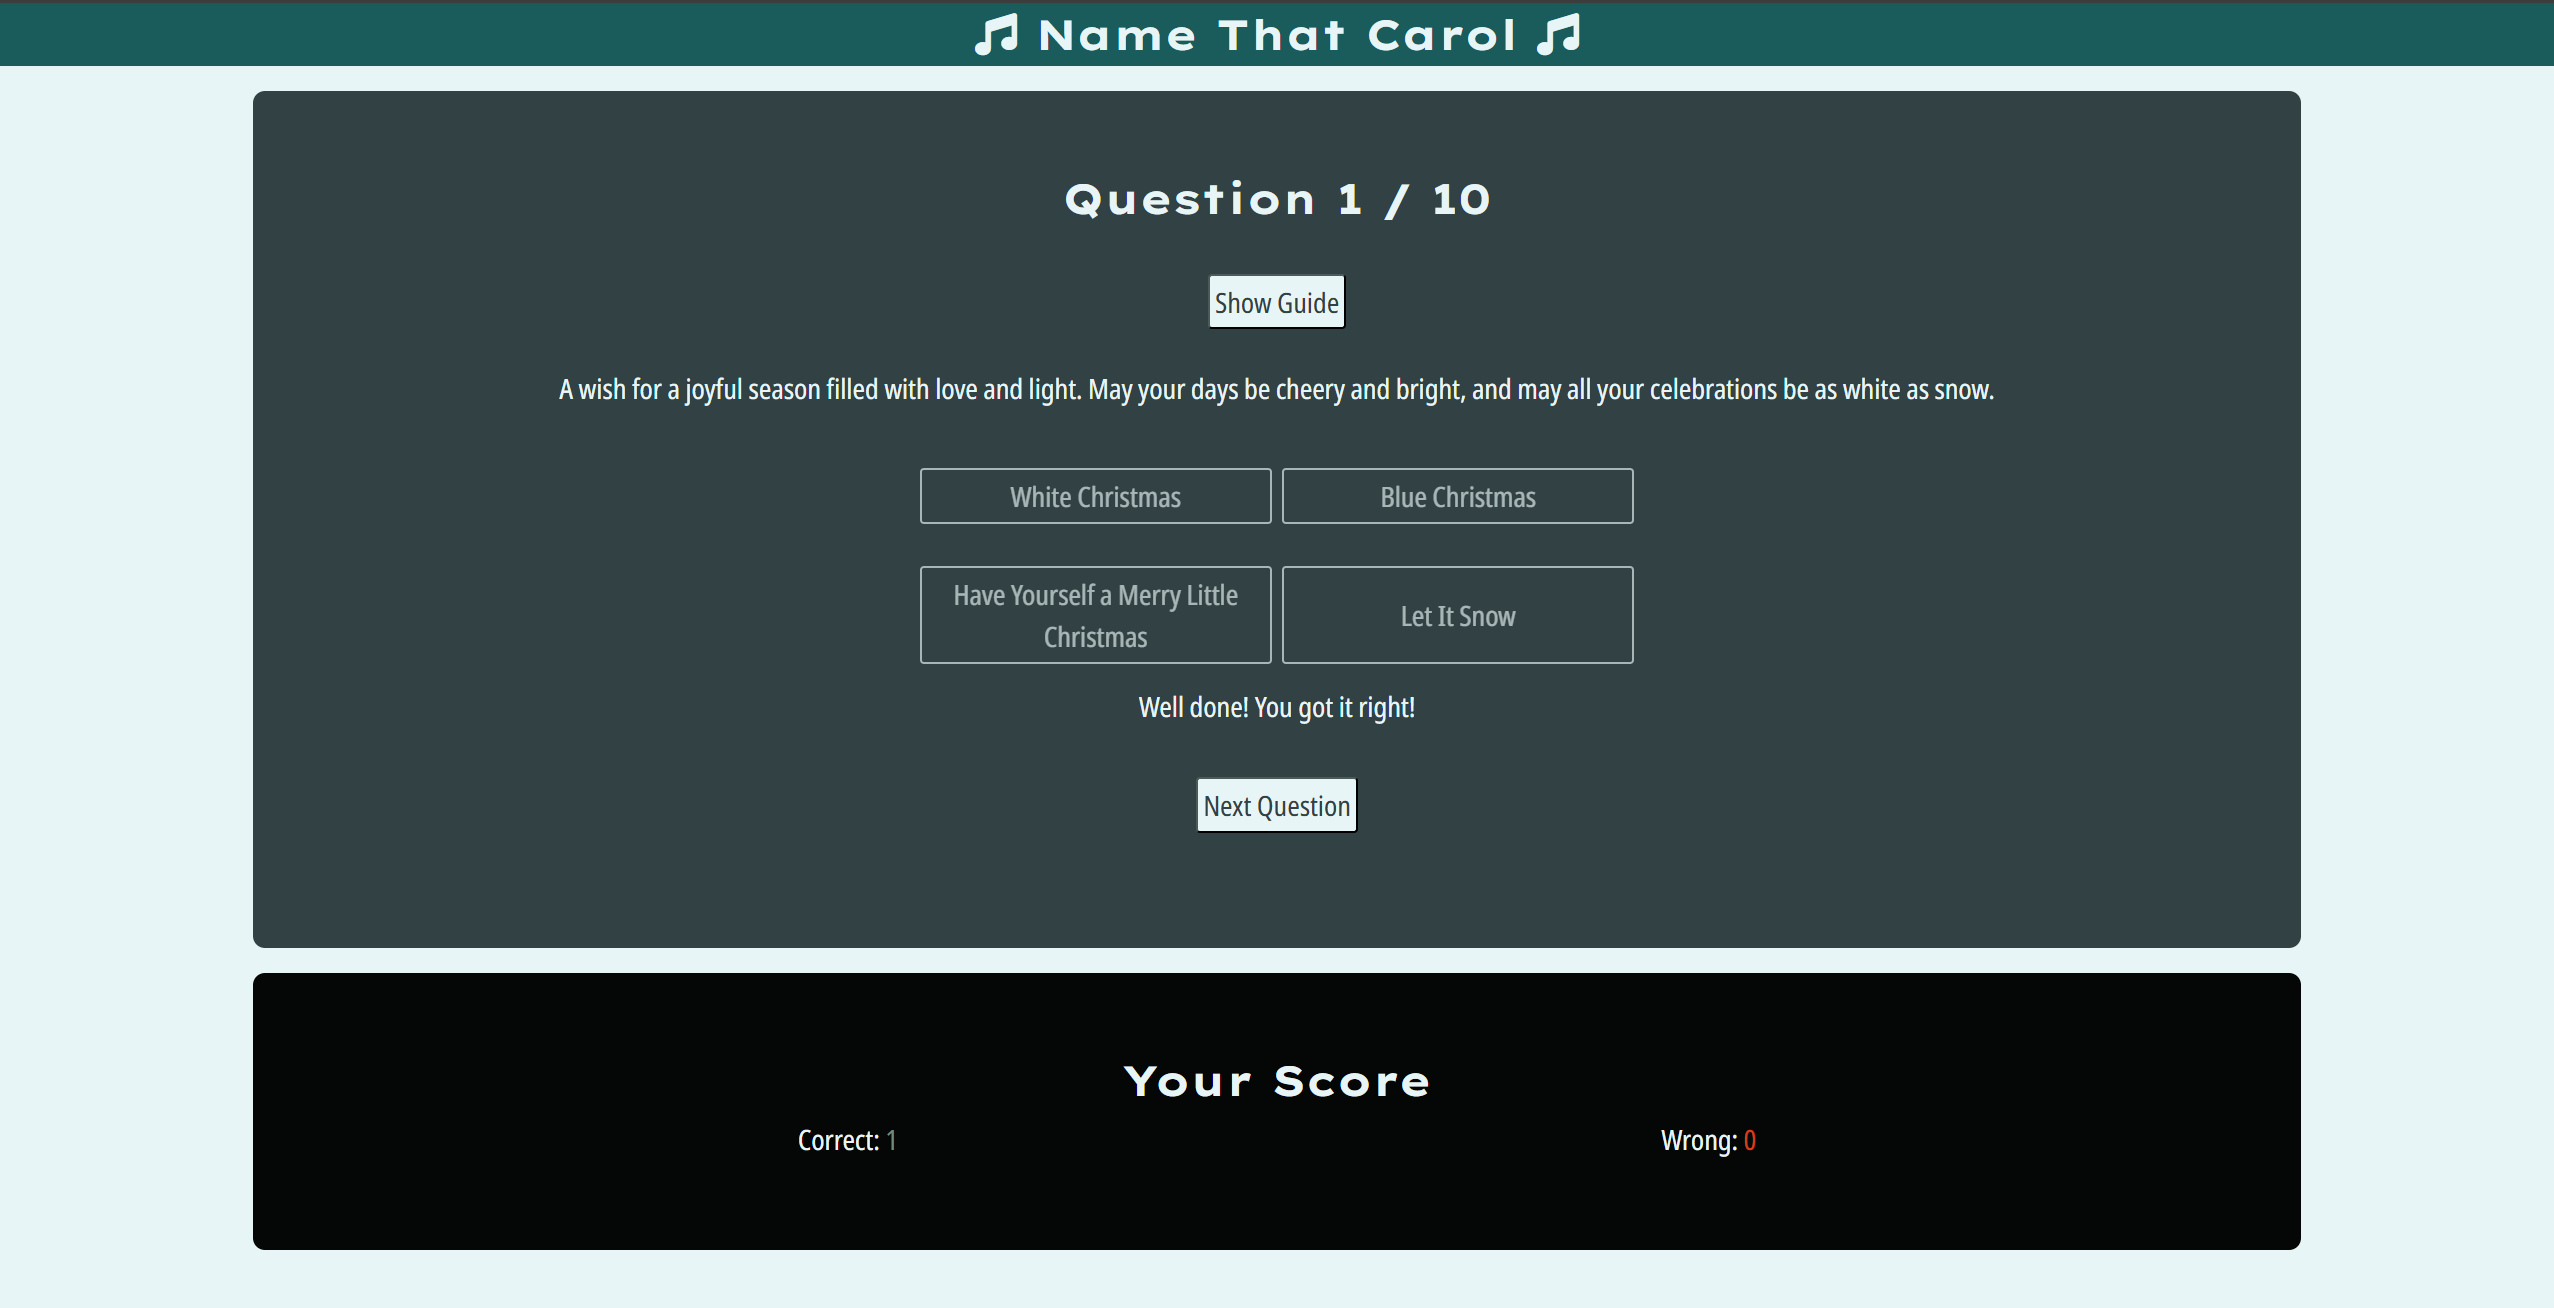
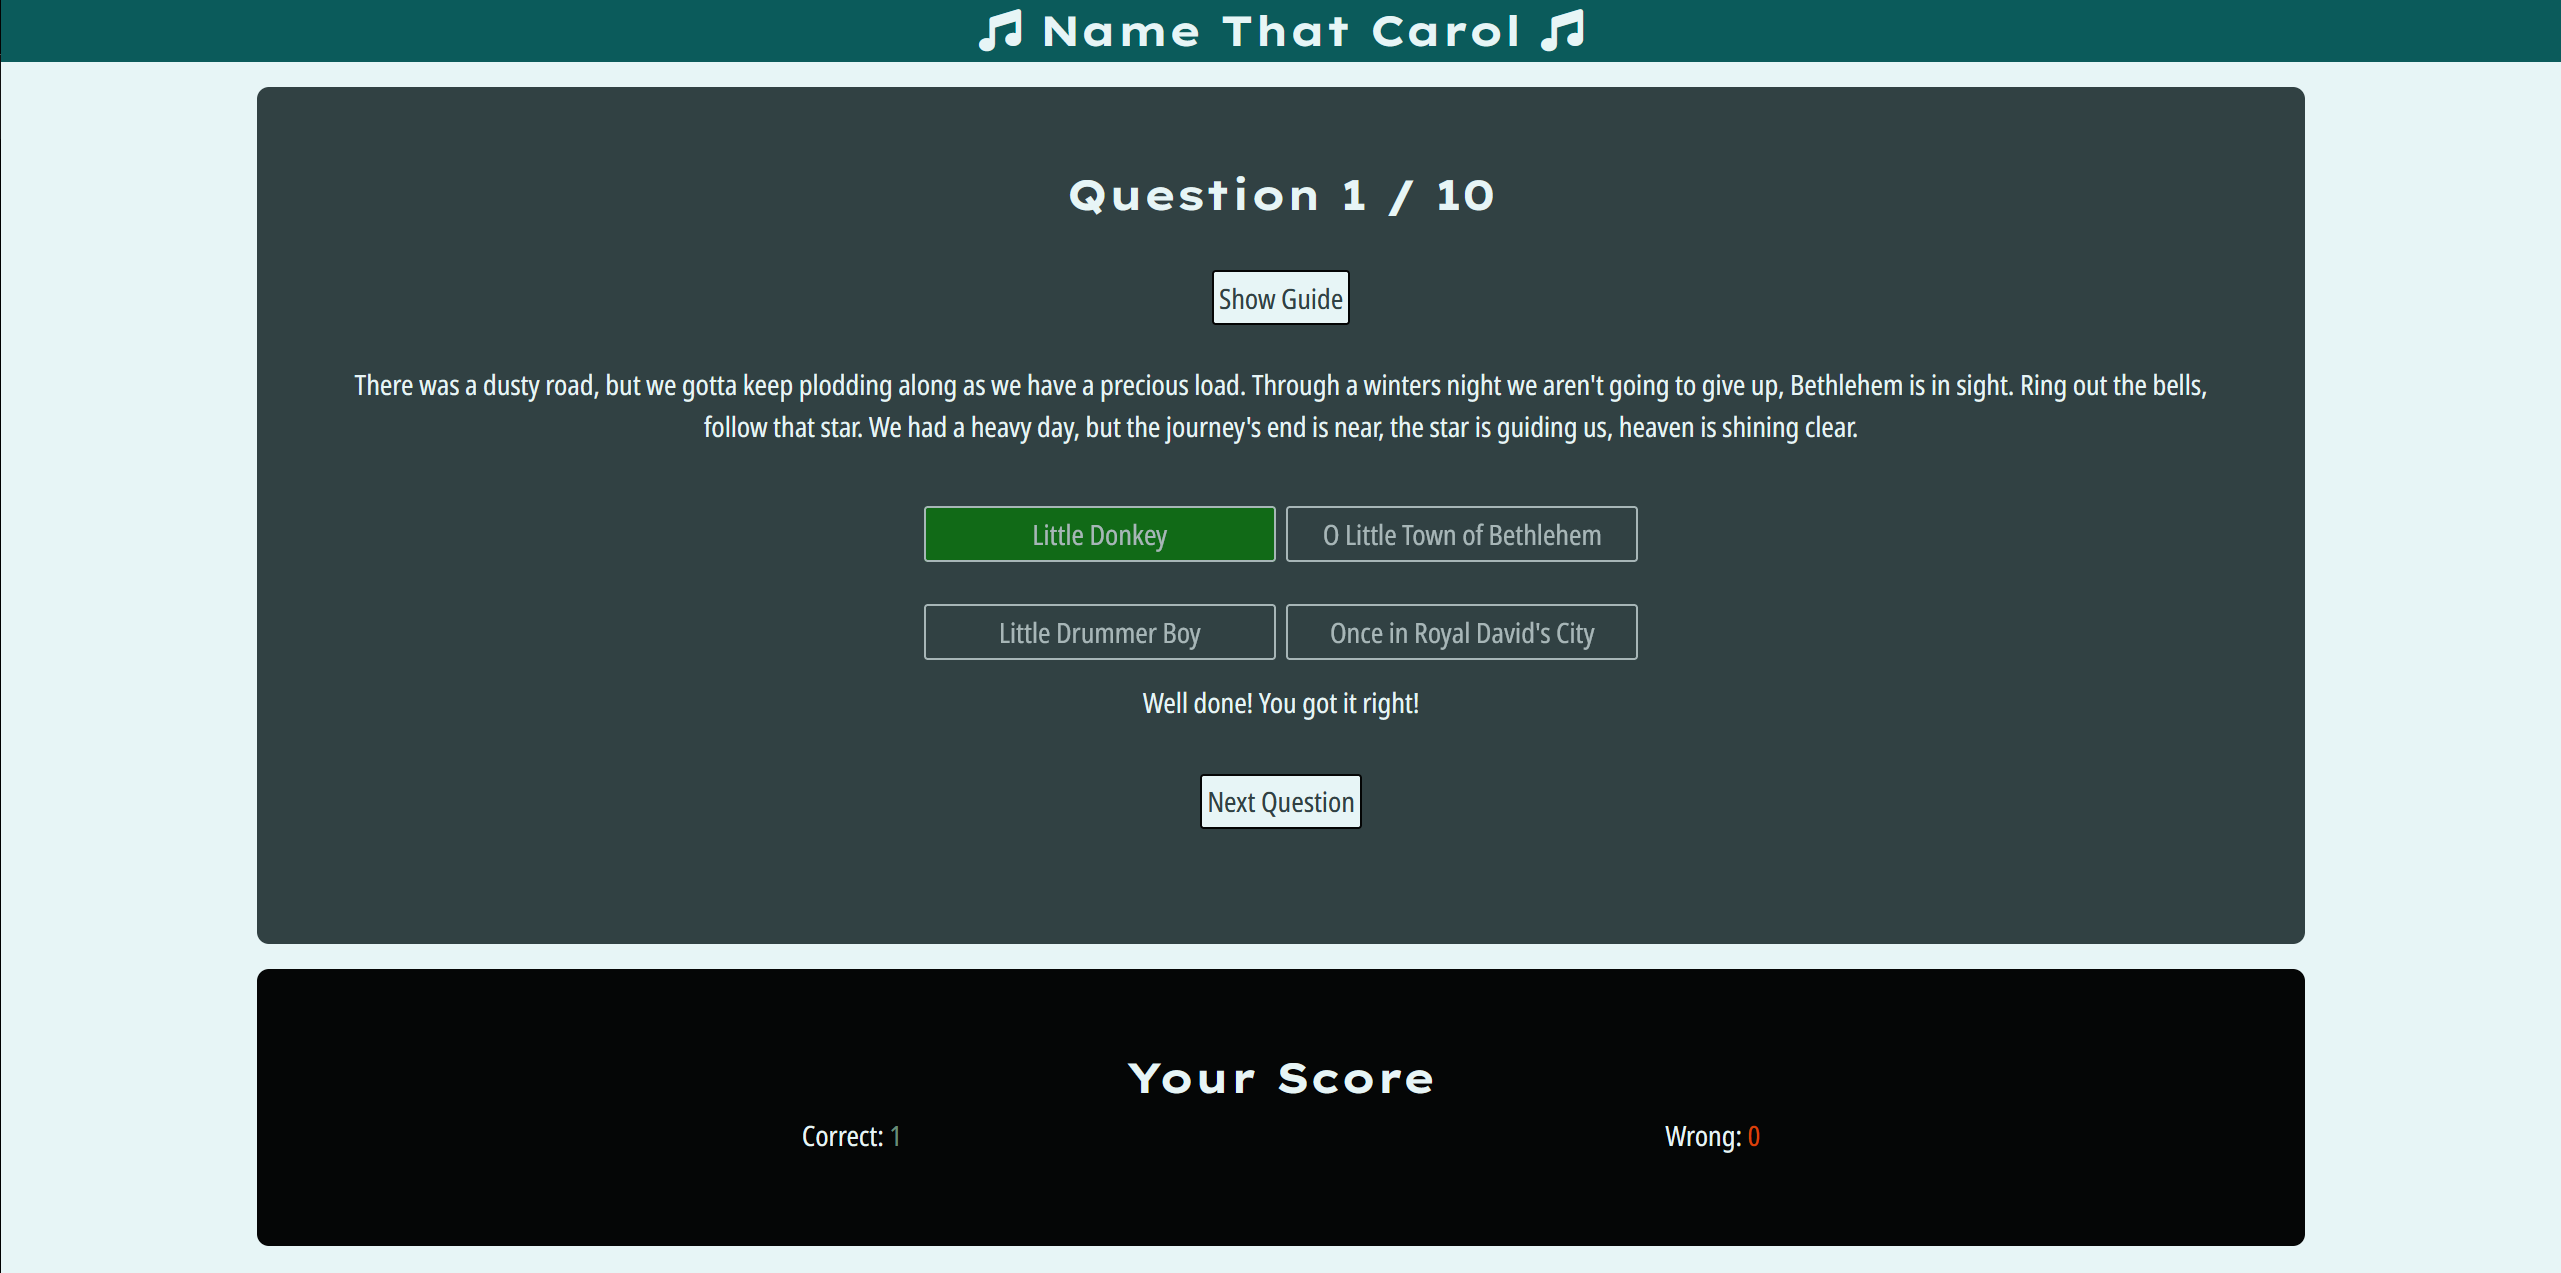
Update readme fixedbugs section features section and links and actions section

diff --git a/README.md b/README.md
@@ -42,7 +42,7 @@ Below are the features for the website and at the end is listed any features tha
 
 - When the user first accesses the page they are invited to create a username, the user can either hit enter or click submit user
 - Once created it shows a message that they have created a username and it has been saved and the guide and quiz buttons appear
-- If the user is revisiting the site they are welcomed back and can go to the guide or the quiz
+- If the user is revisiting the site they are welcomed back, their username appears in the username input field and they can go to the guide or the quiz
 
 ![UsernameCreation](assets/readmeimgs/usernamecreation.png)
 
@@ -62,9 +62,10 @@ Below are the features for the website and at the end is listed any features tha
 #### Quiz
 
 - Here the user can test their knowledge on christmas songs, both carols and popular songs
-- They can click the answer they think it is either by clicking the radio buttons or the name of the song
-- Once they are happy with their choice they can click submit answer and a alert box pops up and tells them if they got it correct or wrong, if wrong it tells them the correct answer
-- If they click submit without selecting an answer an alert box appears telling them to select an answer
+- They can click the answer they think it is by clicking the name of the song
+- After they clicked the song a message appears informing them if they got it correct or wrong
+- The correct answer goes green, if the user got it wrong their answer goes red
+- A next question button appears so the user can continue with the quiz when they are ready
 - The scoreboard then updates either the correct or wrong score
 - The question order is randomised
 - For each question the order of the options are randomised as well
@@ -112,6 +113,8 @@ The website has been tested; including internal (buttons and navbar) & external 
 - Answer was undefined after user submitted answer due to answer variable wasn't in the selectAnswer function
 - Leaderboard was not showing due to incorrect use of JSON.parse and JSON.string, edited how this was used in the JS file so that it worked
 - Leaderboard had names coming back as undefined because I was using the wrong name for list item, I was using score.username therefore this was fixed by changing score.username to the correct name of score.name
+- Buttons were changing background colour after answer was submitted as I was trying to get the data and not an element when using the correctAnswer variable to try and change the style, therefore used userAnswer variable which is an element and created a class called actualAnswer using an if statement for the correct answer in the forEach function for the options
+- Using document.getElementsByClassName.style.backgroundColour wasn't working to style the correct answer if the user got it wrong, therefore changed it to querySelector instead to get it to work
 
 ### Unfixed Bugs
 
@@ -124,14 +127,14 @@ The website has been tested; including internal (buttons and navbar) & external 
 | Username Creation                         | Username not entered                  | Tell user to fill in the field                                                                                                                                                                                                      | Pass        |
 | Username Creation                         | Username Entered and Submit Clicked   | Reveal message that tells user, username was successfully created and guide and quiz buttons                                                                                                                                        | Pass        |
 | Username Creation                         | Username Entered and user hit enter   | Reveal message that tells user, username was successfully created and guide and quiz buttons                                                                                                                                        | Pass        |
-| Username Creation                         | If username is stored locally already | Reveal welcome back message and guide and quiz button                                                                                                                                                                               | Pass        |
+| Username Creation                         | If username is stored locally already | Username is shown in input field for username and a welcome back message and guide and quiz buttons are revealed as well                                                                                                                                                                             | Pass        |
 | Username Creation                         | Click Show Guide                      | Hide username creation and reveal guide                                                                                                                                                                                             | Pass        |
 | Username Creation                         | Click Go to Quiz                      | Hide username creation and reveal quiz                                                                                                                                                                                              | Pass        |
 | Guide Div accessed from Username Creation | Click Go to Quiz                      | Hide guide and reveal quiz with question 1 at top and question with options button below                                                                                                                                            | Pass        |
 | Guide Div accessed from Quiz div          | Click Go to Quiz                      | Hide guide and reveal quiz with the last question the answer was on and the options button below                                                                                                                                    | Pass        |
 | Quiz Div                                  | Click Show Guide                      | Reveal guide                                                                                                                                                                                                                        | Pass        |
-| Quiz Div                                  | Click Correct Answer                  | Submit selected answer and if answer is correct a message below appears congratulating the user and correct score goes up by 1 and a button saying Next Question appears while all the answer buttons get disabled                  | Pass        |
-| Quiz Div                                  | Click Wrong Answer                    | Submit selected answer and if answer is wrong a message below appears telling the user what the correct answer was and wrong score goes up by 1 and a button saying Next Question appears while all the answer buttons get disabled | Pass        |
+| Quiz Div                                  | Click Correct Answer                  | Submit selected answer and if answer is correct the answer goes green and a message below appears congratulating the user and correct score goes up by 1 and a button saying Next Question appears while all the answer buttons get disabled                  | Pass        |
+| Quiz Div                                  | Click Wrong Answer                    | Submit selected answer and if answer is wrong the user answer goes red and the correct anwer goes green and a message below appears telling the user what the correct answer was and wrong score goes up by 1 and a button saying Next Question appears while all the answer buttons get disabled | Pass        |
 | Quiz Div                                  | When final question has been answered | Hide question area and only show the scoreboard and leaderboard with a button Restart Quiz appearing                                                                                                                                | Pass        |
 | Leaderboard                               | When restart quiz is clicked          | Reveal question area again above scoreboard with question 1 and the options, reset scoreboard to 0 for correct and wrong                                                                                                            | Pass        |
 | Leaderboard                               | When create new user is clicked       | Reveal create user area and hide all other areas                                                                                                                                                                                    | Pass        |
@@ -164,9 +167,8 @@ The website has been tested; including internal (buttons and navbar) & external 
 - JavaScript
 
   - I have set the quiz data to one file and the logic to another file
-  - Warnings produced were to do with browser compatibility
-  - quizData is defined in the quizdata.js file
-  - The two unused functions mentioned are used via onclick in HTML
+  - quizData is defined in the quizdata.js file not the script.js file therefore is listed as unused in first screenshot and undefined on the second screenshot
+  - The two unused functions in the second screenshot mentioned are used via onclick in HTML
 
   ![JSHint validator - Quiz Data](assets/readmeimgs/jsquizvalidator.png)
 
